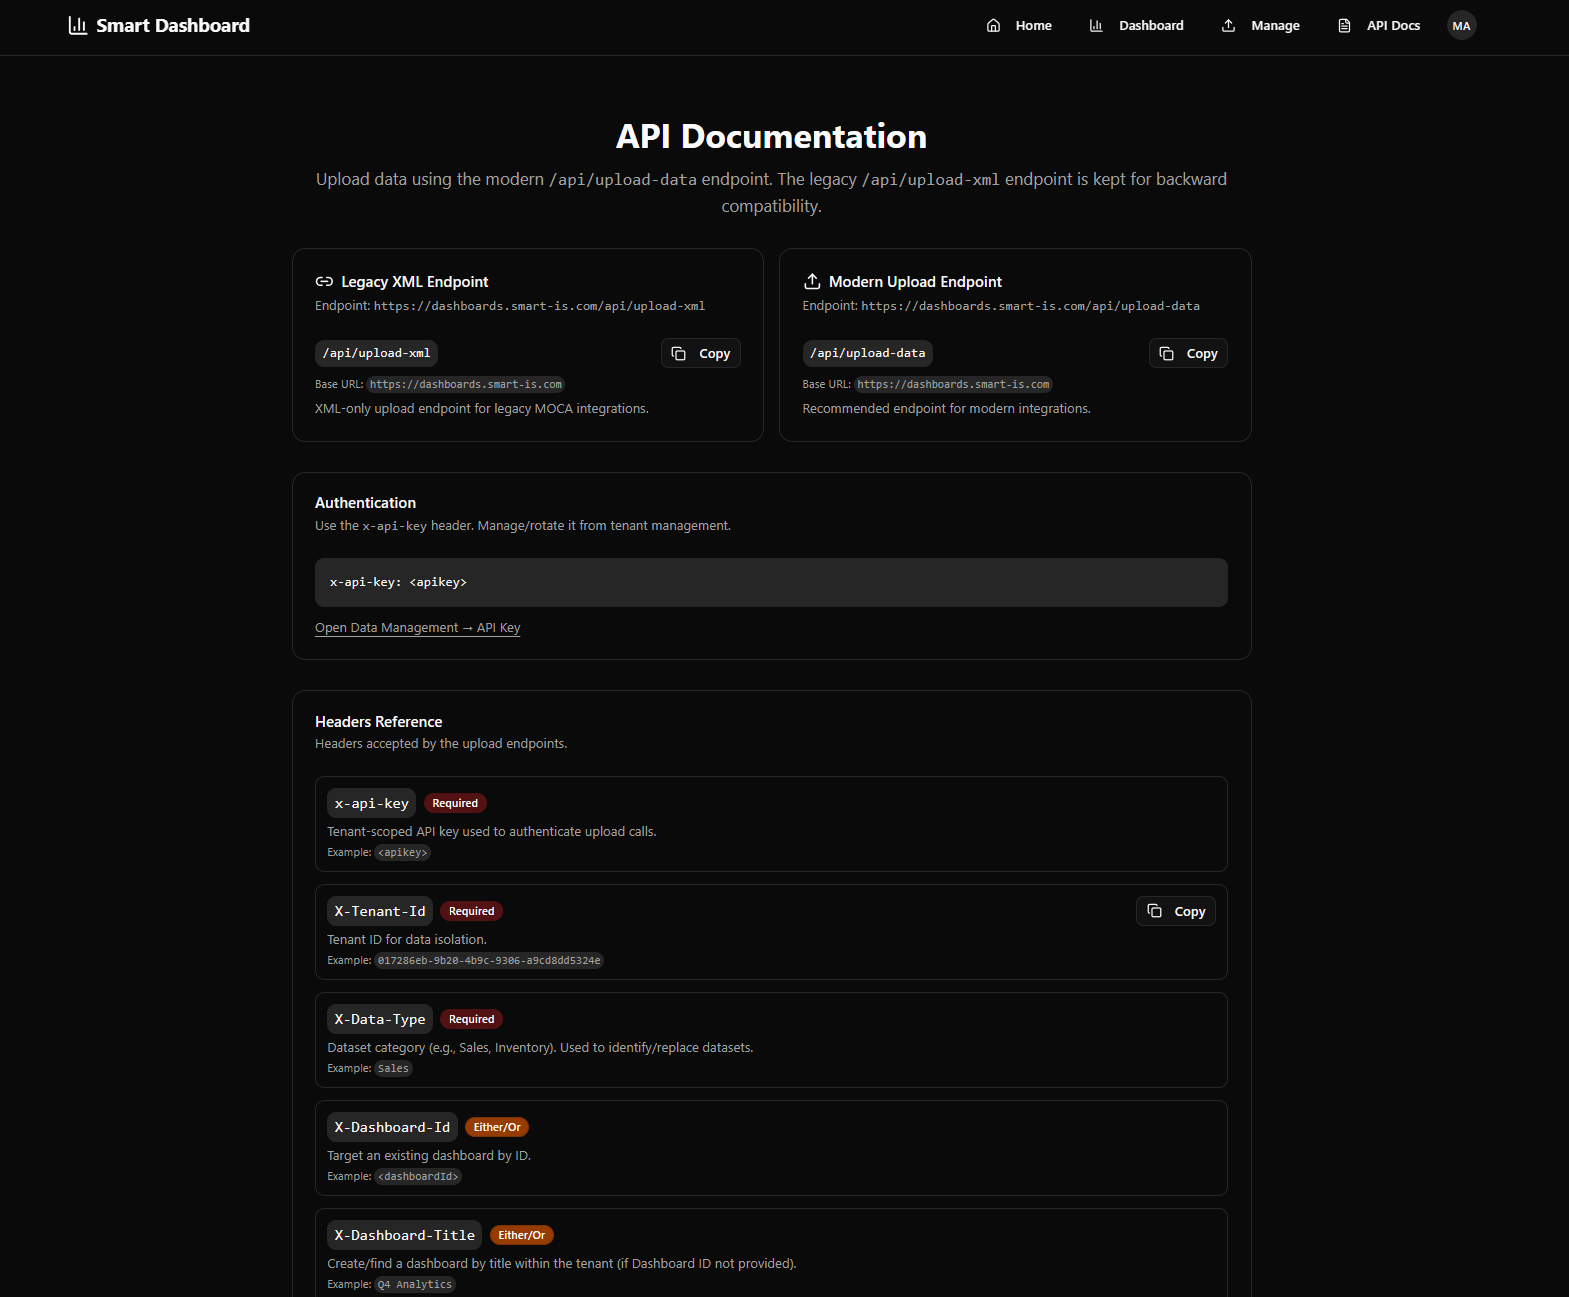
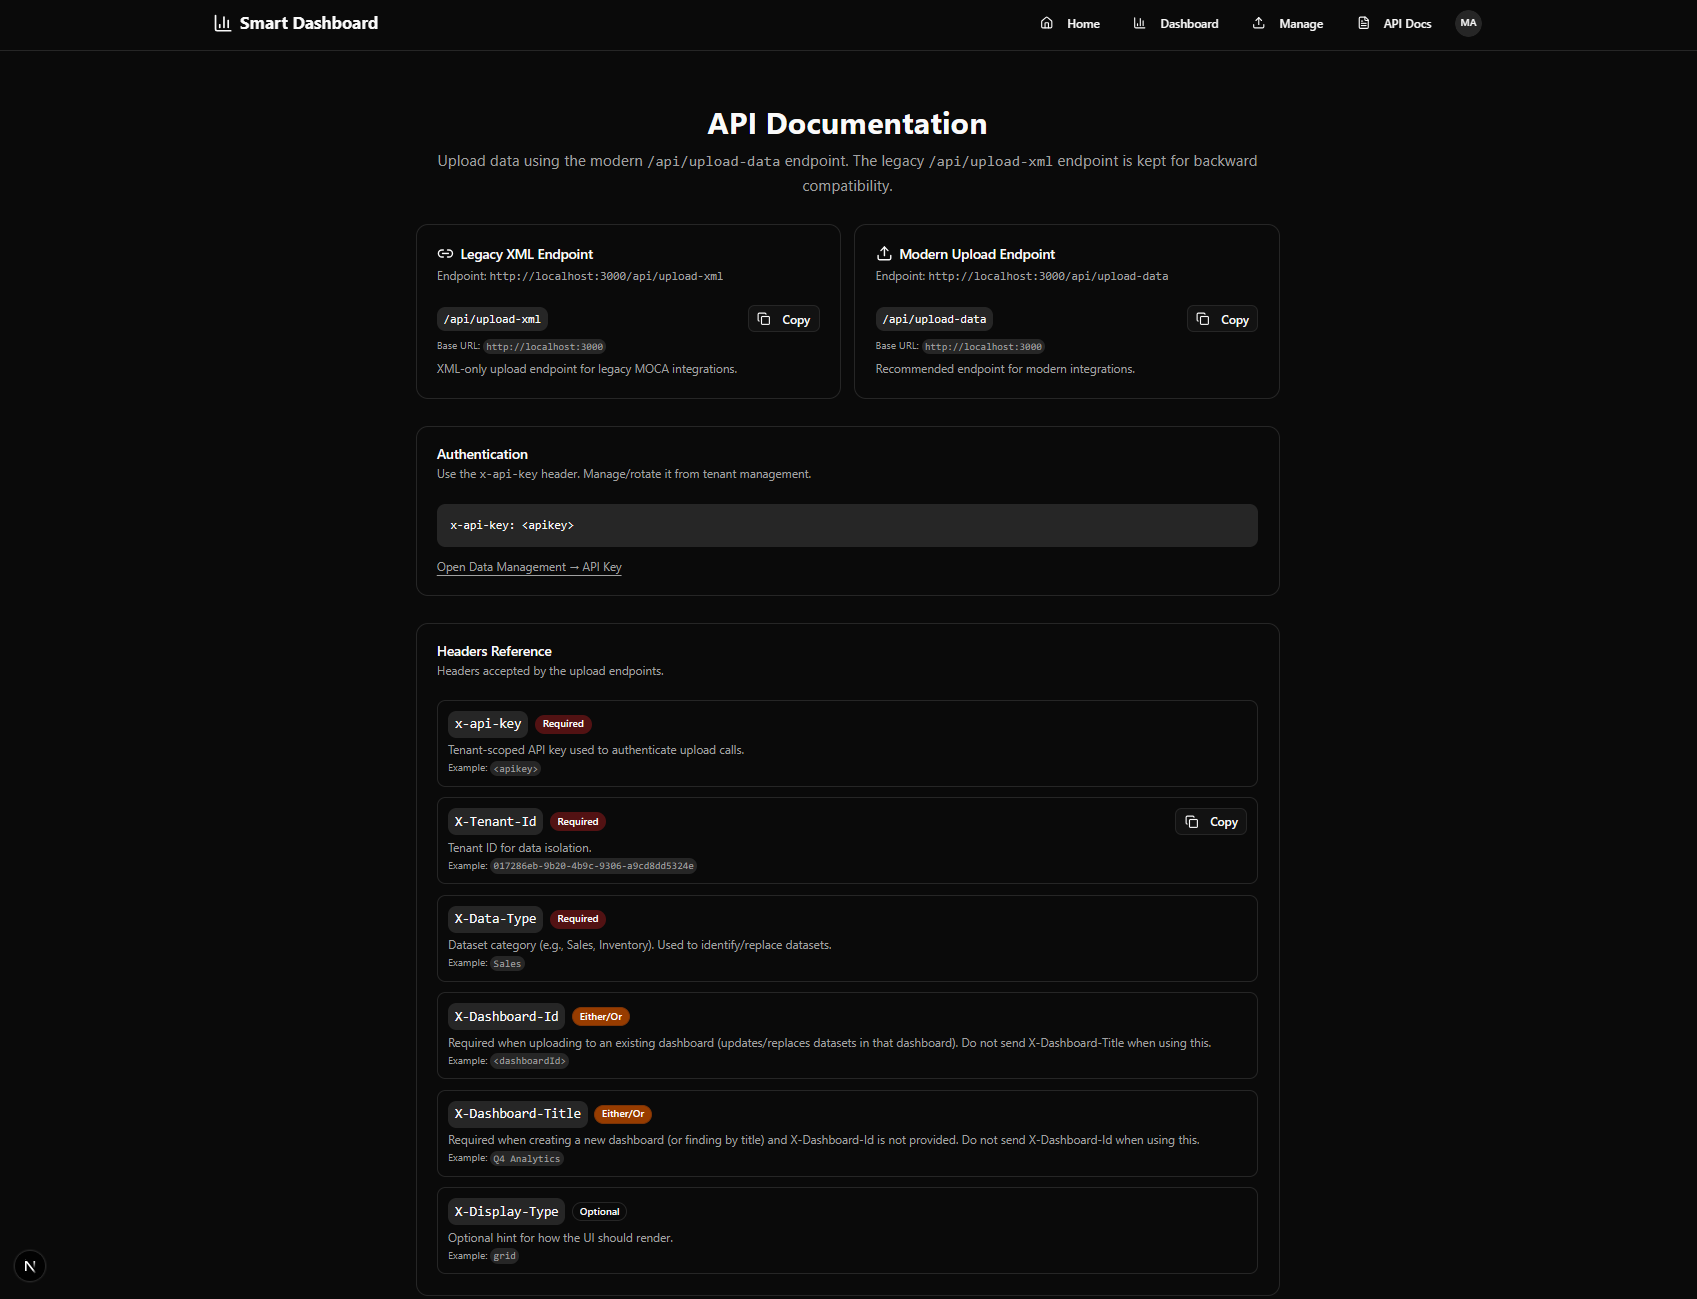
Update Docs

diff --git a/docs/09-sharing-and-tv-mode.md b/docs/09-sharing-and-tv-mode.md
@@ -4,6 +4,47 @@ Smart Dashboard supports sharing dashboards via a public link and viewing charts
 
 ## Public sharing (read-only)
 
+### Prerequisite: enable public sharing for the tenant
+
+Public sharing is controlled by the tenant setting:
+
+- `allow_public_sharing`
+
+To enable it:
+
+1. Open **Data Management → Settings**
+2. Create or update the key `allow_public_sharing`
+3. Set the value to `true`
+
+See: [Settings Reference](./11-settings-reference.md)
+
+#### Screenshot (enable public sharing)
+
+![Public sharing enabled setting](./images/12-allow-public-sharing-setting.png)
+
+> If public sharing is disabled, the Share dialog will show Public sharing as disabled.
+
+### How to create a public share link
+
+1. Open **Dashboards**
+2. Select a dashboard
+3. Click **Share**
+4. Choose **Public (Anyone with link)**
+5. (Optional) Set an expiration date
+6. Click **Generate Public Link**
+7. Copy the URL and send it to your audience
+
+## Screenshots
+
+![Share dialog](./images/11-share-dialog.png)
+
+Notes:
+
+- Share links support both a **dashboard view** (`/shared/<token>`) and a **public TV mode view** (`/shared/<token>/tv-mode`).
+- TV Mode has two variants:
+  1. **Authenticated TV mode** (inside tenant, requires login)
+  2. **Public TV mode** (under a share token)
+
 If your tenant enables sharing, you may generate a share link that looks like:
 
 ```
@@ -16,9 +57,40 @@ Behavior:
 - Public links are **read-only** (no edits).
 - Links may have an expiry date/time.
 
+### What recipients see
+
+When someone opens a share link, they see a read-only dashboard view under:
+
+```
+/shared/<token>
+```
+
 ## TV Mode
 
 TV mode is optimized for wall displays.
+
+### TV Mode settings
+
+In TV mode, you can open **TV Mode Settings** (gear icon) to control how the slideshow behaves.
+
+These settings are:
+
+- Saved locally in your browser (per device)
+- Used for both authenticated and public TV mode
+
+Settings explained:
+
+- **Slide Duration**: How long each slide stays on screen.
+- **Data Refresh Interval**: How often TV mode reloads the latest stored data for the dashboard.
+  - This does not pull from your source system; your system still pushes updates via API.
+- **Controls Hide Timeout**: How quickly on-screen controls auto-hide.
+- **Expand tables to full slide**: When enabled, table/grid slides can use the full screen for readability.
+- **Animation Duration**: Transition speed between slides.
+- **Animation Type**: The easing used for slide transitions.
+
+#### Screenshot (TV Mode settings)
+
+![TV mode settings panel](./images/17-tv-mode-settings.png)
 
 ## Screenshot
 

diff --git a/docs/04-tenant-selection.md b/docs/04-tenant-selection.md
@@ -6,6 +6,8 @@ After sign-in, you choose which tenant (organization/workspace) you want to acce
 
 ![Tenant selection](./images/02-tenant-selection.png)
 
+> Screenshot note: This image should show the tenant selector screen.
+
 ## If you have access to tenants
 
 1. Choose a tenant from the dropdown.
@@ -19,14 +21,51 @@ Some tenants may appear as **pending** while access is being provisioned.
 
 ## If you have no tenants
 
-If you have no tenant access yet, the screen may show a **Request Organization** flow.
+If you have no tenant access yet, the screen shows a **Request Organization** flow.
 
-Typical statuses:
+> This flow is used to request an organization/tenant to be created (or to request access) and then wait for approval.
+
+### Request Organization — step-by-step
+
+1. Click **Apply for Tenant**.
+2. Fill in the request form:
+   - **Organization Name** (required)
+   - **Description** (optional)
+   - **Domains** (comma separated, required)
+3. Click **Request Organization** to submit.
+
+After submission, the page will show your approval status.
+
+## Screenshots (Request Organization flow)
+
+<!-- MAINTAINER NOTE: Replace these placeholder images with real screenshots using the same filenames. -->
+
+![Request organization button page](./images/request-org-button-page.png)
+
+![Request organization form](./images/13-request-org-form.png)
+
+![Request organization pending](./images/14-request-org-pending.png)
+
+![Request organization approved](./images/15-request-org-approved.png)
+
+![Request organization rejected](./images/16-request-org-rejected.png)
+
+### Approval statuses
 
 - **None:** You can submit a request to create/access an organization.
 - **Pending:** Your request is waiting for approval.
-- **Approved:** The system will check for tenant access automatically.
 - **Rejected:** Your request was rejected; you can apply again.
+
+### What to do when pending
+
+- Use **Check Again** to re-check your status.
+- Once approved, the page may auto-refresh for up to ~30 seconds while access is provisioned.
+
+### When “Organization request not allowed” is shown
+
+Some email domains are not eligible to request an organization (for example public email domains).
+
+If you believe you should be eligible, contact your administrator or support.
 
 ## Access denied to a tenant link
 

diff --git a/docs/08-api-docs.md b/docs/08-api-docs.md
@@ -39,7 +39,7 @@ Get or rotate this key from **Data Management → API Key**.
 - **JSON** (recommended)
 - **XML** (legacy)
 
-Smart Dashboard does **not** directly connect to your database and does **not** pull data on a schedule.
+Smart Dashboard does **not** pull data on a schedule. Your systems are responsible for pushing updates.
 
 ## What the API expects (JSON)
 
@@ -59,8 +59,8 @@ The Upload APIs use headers to route and isolate your data.
 | `x-api-key` | Required | Tenant API key |
 | `X-Tenant-Id` | Required | Tenant ID (UUID) |
 | `X-Data-Type` | Required | Dataset category name (e.g., Sales, Inventory) |
-| `X-Dashboard-Id` | Either/Or | Target dashboard by GUID |
-| `X-Dashboard-Title` | Either/Or | Create/find dashboard by title |
+| `X-Dashboard-Id` | Required for updates | Target an existing dashboard by GUID (updates/replaces datasets in that dashboard). Do not send `X-Dashboard-Title` when using this. |
+| `X-Dashboard-Title` | Required for create | Create a new dashboard (or find by title within the tenant) when `X-Dashboard-Id` is not provided. Do not send `X-Dashboard-Id` when using this. |
 | `X-Display-Type` | Optional | Hint for initial UI rendering (e.g., grid/chart) |
 
 ### X-Display-Type values
@@ -85,6 +85,20 @@ curl -X POST "https://<your-app-domain>/api/upload-data" \
   -H "X-Data-Type: Sales" \
   -H "X-Tenant-Id: <tenant-uuid>" \
   -H "X-Dashboard-Id: <dashboard-uuid>" \
+  --data-raw '{"resultset": {"row": [{"Month": "March", "Sales": 18500}]}, "fieldOrder": ["Month", "Sales"]}'
+```
+
+### Example (create a new dashboard by title)
+
+Use this when you **do not** have a dashboard ID yet:
+
+```bash
+curl -X POST "https://<your-app-domain>/api/upload-data" \
+  -H "Content-Type: application/json" \
+  -H "x-api-key: <apikey>" \
+  -H "X-Data-Type: Sales" \
+  -H "X-Tenant-Id: <tenant-uuid>" \
+  -H "X-Dashboard-Title: Q4 Analytics" \
   --data-raw '{"resultset": {"row": [{"Month": "March", "Sales": 18500}]}, "fieldOrder": ["Month", "Sales"]}'
 ```
 

diff --git a/docs/11-settings-reference.md b/docs/11-settings-reference.md
@@ -1,0 +1,39 @@
+# 11) Settings Reference
+
+This page explains the **tenant settings** that affect Smart Dashboard behavior.
+
+You can manage settings in **Data Management → Settings**.
+
+> Settings are **tenant-specific**. Changing a setting affects only the currently selected tenant.
+
+> Note: TV mode also has **viewer settings** (slide duration, refresh interval, etc.). Those are not tenant settings and are saved locally in your browser. See: [Sharing & TV Mode](./09-sharing-and-tv-mode.md).
+
+## allow_public_sharing
+
+**Purpose**: Controls whether dashboards in the tenant can be shared publicly (read-only).
+
+- `true` → users can generate public share links
+- `false` → public sharing is disabled (default)
+
+Where it is used:
+
+- The **Share Dashboard** dialog checks this setting and disables public sharing when it is `false`.
+- Public routes under `/shared/<token>` are blocked if this setting is disabled.
+
+## Dashboard-Title
+
+**Purpose**: Sets the default dashboard title used in places like TV mode headers.
+
+Notes:
+
+- This key is **case-sensitive** and should be exactly `Dashboard-Title`.
+- Some older tenants may have a legacy key `dashboard-title`. If you see both, prefer `Dashboard-Title`.
+
+Recommended value:
+
+- A short label like `Dashboard`, `KPI Dashboard`, or your organization name.
+
+## Other settings
+
+Your tenant may have additional settings that are specific to your organization’s setup.
+If you are unsure what a setting does, contact your administrator or support.

diff --git a/docs/10-troubleshooting-faq.md b/docs/10-troubleshooting-faq.md
@@ -35,7 +35,7 @@ Supported ingestion formats:
 - **JSON** (recommended)
 - **XML** (legacy)
 
-We do **not** directly support uploading Excel/XLS or CSV files, and we do **not** directly connect to databases.
+We do **not** directly support uploading spreadsheet files (for example Excel/XLS) and we do **not** directly connect to databases.
 
 ## How often is data refreshed?
 
@@ -61,12 +61,9 @@ Your API key may be missing or invalid.
 
 ## I expected CSV/Excel uploads or a database connection
 
-Smart Dashboard does not directly connect to your database and does not ingest Excel/CSV files automatically.
+Smart Dashboard is a **push-based** system.
 
-Instead, push your data to the Upload API in:
-
-- **JSON** (recommended)
-- **XML** (legacy)
+Push your data to the Upload API in JSON (recommended) or XML (legacy).
 
 ## Who can view/rotate the API key?
 

diff --git a/docs/01-product-overview.md b/docs/01-product-overview.md
@@ -1,11 +1,16 @@
 # 1) Product Overview
 
-**Smart Dashboard** helps you visualize business/operational data as interactive charts and tables.
+**Smart Dashboard** is a lightweight KPI and operational dashboarding tool.
+
+It is a **push-based** system:
+
+- You push data from your systems (via API)
+- Smart Dashboard stores it per tenant and displays it as charts or tables
 
 It is designed for:
 
 - Teams that want an easy way to view dashboards without building custom UI.
-- Integrations that send periodic data updates (XML/JSON) from an external system.
+- Integrations that push periodic data updates (JSON recommended; XML supported for legacy).
 - Organizations that require **tenant isolation** (each tenant’s data is separated).
 
 ## Key Concepts

diff --git a/docs/readme.md b/docs/readme.md
@@ -11,6 +11,11 @@ This site is intended for **customers and end users**. It walks through the key 
 3. Open your dashboards
 4. Upload data (via API or manual paste)
 
+If you are new to Smart Dashboard, start with:
+
+- [1) Product Overview](./01-product-overview.md) (concepts and the push-based model)
+- [2) Getting Started](./02-getting-started.md) (first-time flow)
+
 ## Start here
 
 - [1) Product Overview](./01-product-overview.md)

diff --git a/docs/_sidebar.md b/docs/_sidebar.md
@@ -11,3 +11,4 @@
   - [8) API Docs (Upload Integration)](./08-api-docs.md)
   - [9) Sharing & TV Mode](./09-sharing-and-tv-mode.md)
   - [10) Troubleshooting & FAQ](./10-troubleshooting-faq.md)
+  - [11) Settings Reference](./11-settings-reference.md)
